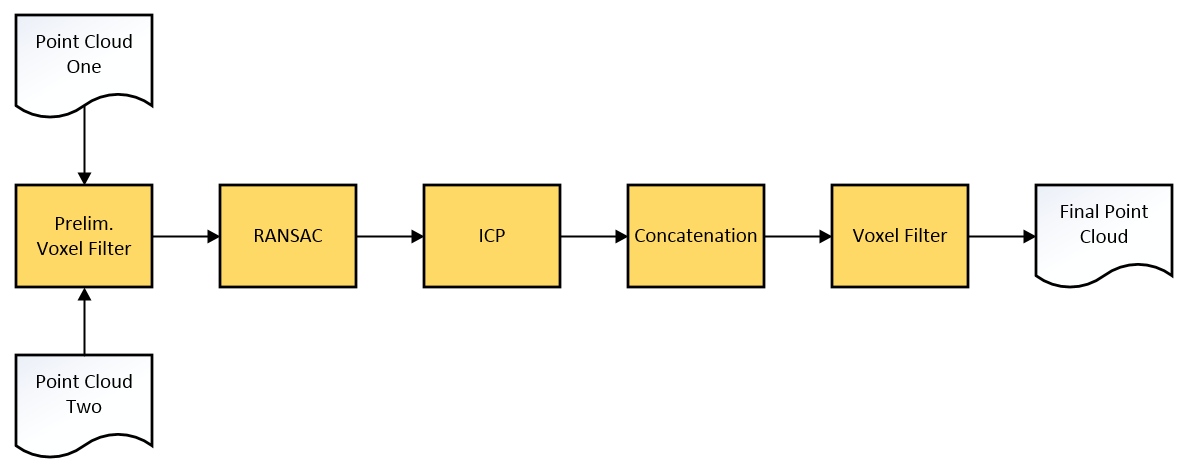
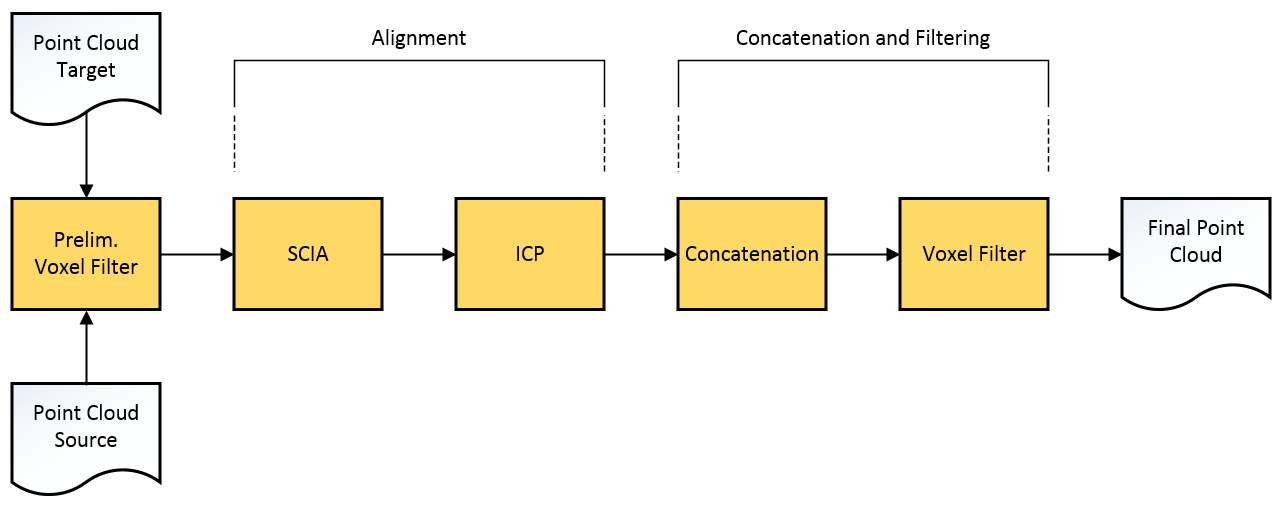
Worked on hardware, mapping, map fusion, and software sections.

Changed region(s): [[0.0, 0.0, 0.995, 0.9788], [0.5286, 0.0593, 0.8395, 0.1483], [0.4042, 0.4746, 0.4353, 0.5339]]

diff --git a/draft.tex b/draft.tex
@@ -11,6 +11,8 @@
 \usepackage{fancyhdr}
 \usepackage{cite}
 \usepackage{classicthesis}
+\usepackage{caption}
+\usepackage{subcaption}
 
 \geometry{letterpaper}
 
@@ -32,7 +34,7 @@
 \pagestyle{fancy}
 
 \begin{document}
-% \doublespacing
+\doublespacing
 
 % Title page
 \begin{titlepage}
@@ -86,7 +88,9 @@ The main advantage of choosing an x86 board (found in most desktop or laptop com
 
 \section{Hardware}
 
-The hardware design of the robot was focused on using low-cost, off-the-shelf components (see Table 1). The approximate cost of a built robot was \$894, significantly cheaper than those used at MIT or University of Washington with similar project requirements.
+\subsection{Components}
+
+The hardware design of the robot was focused on using low-cost, off-the-shelf components (see Table 1). The approximate cost of a built robot was \$894, significantly cheaper than pre-built alternatives such as the AscTec Pelican used at MIT \cite{bachrach2011range} and University of Washington \cite{bachrach2012estimation} with similar project requirements.
 
 % Table of components used on robot
 \begin{table}[h!]
@@ -119,7 +123,31 @@ The hardware design of the robot was focused on using low-cost, off-the-shelf co
    \includegraphics[width=0.3\textwidth]{figures/quadcopter}
 \end{figure}
 
+\noindent The onboard computational unit chosen was the ODROID XU3 by HardKernel, which has a 1.7Ghz quad-core Snapdragon CPU, 2GB DDR3 RAM, 64GB eMMC flash storage, USB 3.0, and draws 5A. Initially, the robot was equipped with a PandaBoard ES, possessing a 1.2Ghz dual core with 1GB DDR3 RAM, SD card storage, and drawing 3A. Due to low memory and high read/write latencies, the latter board struggled to bear the load of even a full Ubuntu installation and was replaced with the XU3. For the visual sensor, a stripped down Microsoft Kinect Model 1473 was mounted onto the quadcopter - removing the sensor housing reduced weight from a heavy 3 lb to a very nimble 100 g. A Pixhawk PX4 flight controller was also added to the system for actuation control - this allowed the focus of the project to remain on the mapping and flight components of the robot. To accomodate the 12V, 1A requirements of the Kinect and 5V, 5A of the ODROID, several power regulators were mounted and installed to the robot's power system. The entire system was powered by a single 2450 mAh LiPo battery.
+
 \section{Software}
+
+\subsection{ROS Hydro}
+
+% ROS architecture
+\begin{figure}[h!]
+ \caption{Photograph of finished quadcopter robot.}
+ \centering
+   \includegraphics[width=0.4\textwidth]{images/ros_arch}
+\end{figure}
+
+\subsection{RGBDSLAM\_V2}
+
+Due to time constraints, a proprietary SLAM algorithm was forgone for a previously developed software package. Due to it's compatibility with ROS and extensive use throughout the robotics community, RGBDSLAM was the software used to produce the map and pose transformations of the robot during flight.
+
+% RGBDSLAM data flow
+\begin{figure}[h]
+ \caption{Data flow of RGBDSLAM_V2}
+ \centering
+   \includegraphics[width=0.6\textwidth]{images/rgbdslam}
+\end{figure}
+
+\subsection{MAVROS}
 
 The direction of my project has two major stages to complete: Designing the robot and developing the navigation and map-building algorithms. \\
 
@@ -131,21 +159,90 @@ The direction of my project has two major stages to complete: Designing the robo
 
 \chapter{Single Robot}
 \section{Navigation}
+
+
+
 \section{Mapping}
+
+In a previous paper, Bachrach et al. implemented mapping by offloading realtime processing to a local server \cite{bachrach2012estimation}. This robot design differs from its contemporaries by computing all steps of the mapping procedure onboard. As noted in Figure X, the quadcopter's onboard computer runs an RGBDSLAM ROS node in realtime during flight. This node generates the three-dimensional map, which can be be saved on disk as a file through a service call in ROS and retrieved after a test flight. The ROS node also allows requests for the current state of the map. As a result, a custom ROS node was written that allows for realtime visualization - this can be streamed to a nearby computer via Wi-Fi connection (see Figure X, Y). These two options allow for absolute flexibility in situations where remote access to the robot may or may not be possible.
+
 \section{Results}
+
+\noindent Testing of a single quadcopter robot was done in the concourse of the Information Technology Engineering building on the UConn Storrs campus. As seen in Figure 5, an image taken of the quadcopter in flight can be seen in the top left, the RGB stream from the Kinect sensor on the bottom left, and on the right-hand side, the 3-D map generated in realtime by the onboard computer.
+
+% Map fusion algorithm flowchart
+\begin{figure}[h]
+ \caption{Live test of a single quadcopter.}
+ \centering
+   \includegraphics[width=0.8\textwidth]{images/single_test}
+\end{figure}
 
 \chapter{Multiple Robots}
 \section{Map Fusion}
 
-%\begin{figure}[h]
- %\caption{Data flow of map fusion algorithm.}
- %\centering
-   %\includegraphics[width=0.6\textwidth]{copter}
-%\end{figure}
+\noindent When transitioning from one robotic agent generating a global 3-D map to multiple robot agents, an algorithm capable of fusing each robot's local map together is essential. Each map generated by an individual robot has its own point cloud and pose (or transformation) in 3-D space. In order to make sense of these individual clouds, the algorithm accomplishes two goals: 1) it transforms two maps into the same global reference frame, 2) stitches the maps together and 3) eliminates redundant data points. By incrementally inputting maps into the algorithm, the server can output a final 3-D representative of all robotic agents' mapping efforts. As shown in Figure 2, this algorithm is divided into two key sections and follows a similar approach to Henry et. al.\cite{henry2012rgb}.
+
+% Map fusion algorithm flowchart
+\begin{figure}[h]
+ \caption{Data flow of map fusion algorithm.}
+ \centering
+   \includegraphics[width=0.9\textwidth]{images/mapfusion}
+\end{figure}
+
+\subsection{Sample Consensus Initial Alignment}
+
+\noindent Given two maps within their own reference frame, it's necessary to transform the source map into the reference frame of the target map. The point clouds are first put through an initial alignment phase using the Sample Concensus Initial Alignment algorithm \cite{rusu2009fast}. This outputs a final transformation which is applied to the source cloud. In laymen's terms, this basically provides a large correction to the initial alignment of the two clouds, seen in Figure 4(a).
+
+\begin{figure}[h]
+ \caption{Data flow of SCIA process.}
+ \centering
+   \includegraphics[width=0.45\textwidth]{images/initialalignment}
+\end{figure}
+
+\noindent Within the alignment process itself, there are several subprocesses. First, the normals of each cloud are estimated, which are then used to estimate Fast Point Feature Histogram \cite{rusu2009fast, rusu2009fastlabel} features from each point cloud. The features clouds from this process are finally used to estimate an initial transformation.
+
+\subsection{Iterative Closest Point}
+
+\noindent After the clouds have passed through the initial alignment stage, they are locally optimized using the Iterative Closest Point algorithm. As shown in Figure 4(b), this outputs a second transformation applied to the source cloud that eliminates narrower errors on the transformation compared to the target cloud.
+
+\subsection{Filtering and Concatentation}
+
+Lastly, the target and transformed source cloud are concatenated using Point Cloud Library's concatentation features - programmatically, this is as simple as just adding the clouds together. Using another Voxel filter, the excess data points are trimmed away to generate the final stitched version of the map, as shown in Figure 4(c). \\
+
+% Map fusion visuals
+\begin{figure}[h]
+    \centering
+    \begin{subfigure}[h]{0.31\textwidth}
+        \centering
+        \includegraphics[width=\textwidth]{images/fusion_raw}
+        \caption{Raw concatentation.}
+        \label{fig:Raw concatentation.}
+    \end{subfigure}
+    \hfill
+    \begin{subfigure}[h]{0.31\textwidth}
+        \centering
+        \includegraphics[width=\textwidth]{images/fusion_scia}
+        \caption{SCIA alignment.}
+        \label{fig:SCIA alignment.}
+    \end{subfigure}
+    \hfill
+    \begin{subfigure}[h]{0.31\textwidth}
+        \centering
+        \includegraphics[width=\textwidth]{images/fusion_scia}
+        \caption{ICP alignment.}
+        \label{fig:ICP alignment.}
+    \end{subfigure}
+    \caption{Visual process of map fusion.}
+    \label{fig:Visual process of map fusion.}
+\end{figure}
 
 \section{Results}
 
 \chapter{Conclusions}
+
+\subsection{Future Work}
+
+
 
 \chapter{Appendix}
 
